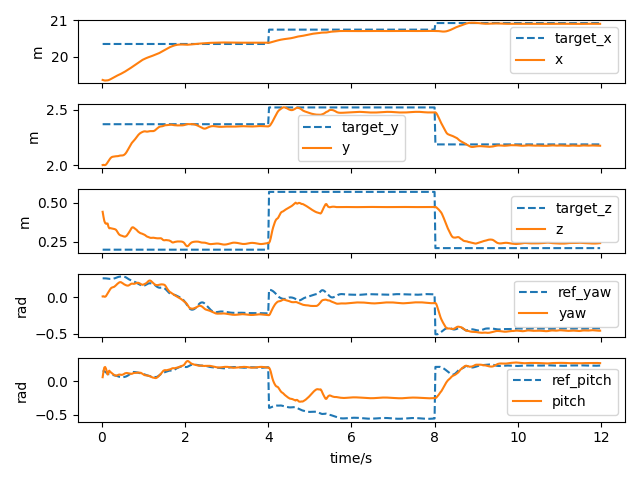
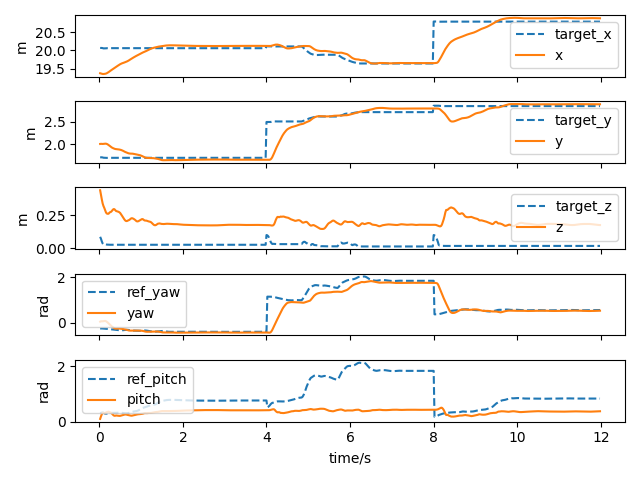
feat: add box

diff --git a/legged_gym/legged_gym/envs/go1g/go1gbox.py b/legged_gym/legged_gym/envs/go1g/go1gbox.py
@@ -97,7 +97,7 @@ class Go1GB(BaseTask):
         self.height_samples = None
         self.debug_viz = True
         self.init_done = False
-        self.use_box = False
+        self.use_box = True
         self._parse_cfg(self.cfg)
         super().__init__(self.cfg, sim_params, physics_engine, sim_device, headless)  # calls create_sim
         self.num_dummy_dof = cfg.env.num_dummy_dof  # used only in simulation
@@ -122,7 +122,8 @@ class Go1GB(BaseTask):
         Args:
             actions (torch.Tensor): Tensor of shape (num_envs, num_actions_per_env)
         """
-        actions = self.policy(self.obs_buf.detach(), hist_encoding=True, scandots_latent=None)
+        #wqwqwq
+        actions = self.policy(self.lowlevel_obs_buf.detach(), hist_encoding=True, scandots_latent=None)
         actions = self.reindex(actions)
         actions.to(self.device)
         self.action_history_buf = torch.cat([self.action_history_buf[:, 1:].clone(), actions[:, None, :].clone()], dim=1)
@@ -152,15 +153,15 @@ class Go1GB(BaseTask):
         self.post_physics_step()
 
         clip_obs = self.cfg.normalization.clip_observations
-        self.obs_buf = torch.clip(self.obs_buf, -clip_obs, clip_obs)
-        if self.privileged_obs_buf is not None:
-            self.privileged_obs_buf = torch.clip(self.privileged_obs_buf, -clip_obs, clip_obs)
+        self.lowlevel_obs_buf = torch.clip(self.lowlevel_obs_buf, -clip_obs, clip_obs)
+        if self.privileged_lowlevel_obs_buf is not None:
+            self.privileged_lowlevel_obs_buf = torch.clip(self.privileged_lowlevel_obs_buf, -clip_obs, clip_obs)
         self.extras["delta_yaw_ok"] = self.delta_yaw < 0.6
         if self.cfg.depth.use_camera and self.global_counter % self.cfg.depth.update_interval == 0:
             self.extras["depth"] = self.depth_buffer[:, -2]  # have already selected last one
         else:
             self.extras["depth"] = None
-        return self.obs_buf, self.privileged_obs_buf, self.rew_buf, self.reset_buf, self.extras
+        return self.lowlevel_obs_buf, self.privileged_lowlevel_obs_buf, self.rew_buf, self.reset_buf, self.extras
 
     def get_history_observations(self):
         return self.obs_history_buf
@@ -214,9 +215,9 @@ class Go1GB(BaseTask):
         next_flag = self.reach_goal_timer > self.cfg.env.reach_goal_delay / self.dt
         self.cur_goal_idx[next_flag] += 1
         self.reach_goal_timer[next_flag] = 0
+        # update current goal(box position)
+        self.target_position = self.box_states[:,:3]
 
-        _target_position = self.commands[:,:2] + self.env_origins[:,:2]
-        self.target_position = torch.cat((_target_position, self.commands[:,2:3]), dim=1)
         self.reached_goal_ids = torch.norm(self.target_position-self.ee_pos, dim=1) < self.cfg.env.next_goal_threshold
         self.reach_goal_timer[self.reached_goal_ids] += 1
 
@@ -243,7 +244,7 @@ class Go1GB(BaseTask):
         self.gym.refresh_rigid_body_state_tensor(self.sim)
         self.gym.refresh_force_sensor_tensor(self.sim)
         self.root_states = self.all_root_states[self.robot_idxs,:]
-        self.box_states = self.all_root_states[self.box_idxs,:]  # box position
+        self.box_states = self.all_root_states[self.box_idxs,:]
 
         self.episode_length_buf += 1
         self.common_step_counter += 1
@@ -280,7 +281,7 @@ class Go1GB(BaseTask):
 
         # self.cur_goals = self._gather_cur_goals()
         # self.next_goals = self._gather_cur_goals(future=1)
-        self.cur_goals = self.box_states[:,:3]
+        self.cur_goals = self.box_states[:,:3]  # not used
 
         self.update_depth_buffer()
 
@@ -408,11 +409,13 @@ class Go1GB(BaseTask):
         Computes observations
         """
         imu_obs = torch.stack((self.roll, self.pitch), dim=1)
-        if self.global_counter % 5 == 0:
+        if self.global_counter % 5 == 0:  # = actions[:,something] wqwqwq
             self.delta_yaw = self.target_yaw - self.yaw
             self.delta_pitch = self.target_pitch - self.pitch
             self.delta_position = self.base_target_pos
-        obs_buf = torch.cat((#skill_vector, 
+
+        # replace real obs to the output of the highlevel policy
+        lowlevel_obs_buf = torch.cat((#skill_vector, 
                             self.base_ang_vel  * self.obs_scales.ang_vel,   #3
                             imu_obs,    #2
                             self.delta_yaw[:, None],    #1
@@ -437,19 +440,18 @@ class Go1GB(BaseTask):
         ), dim=-1)
         if self.cfg.terrain.measure_heights:
             heights = torch.clip(self.root_states[:, 2].unsqueeze(1) - 0.3 - self.measured_heights, -1, 1.)
-            self.obs_buf = torch.cat([obs_buf, heights, priv_explicit, priv_latent, self.obs_history_buf.view(self.num_envs, -1)], dim=-1)
+            self.lowlevel_obs_buf = torch.cat([lowlevel_obs_buf, heights, priv_explicit, priv_latent, self.obs_history_buf.view(self.num_envs, -1)], dim=-1)
         else:
-            self.obs_buf = torch.cat([obs_buf, priv_explicit, priv_latent, self.obs_history_buf.view(self.num_envs, -1)], dim=-1)
-        obs_buf[:, 6:8] = 0  # mask yaw in proprioceptive history
+            self.lowlevel_obs_buf = torch.cat([lowlevel_obs_buf, priv_explicit, priv_latent, self.obs_history_buf.view(self.num_envs, -1)], dim=-1)
+        # lowlevel_obs_buf[:, 6:8] = 0  # mask yaw in proprioceptive history
         self.obs_history_buf = torch.where(
             (self.episode_length_buf <= 1)[:, None, None], 
-            torch.stack([obs_buf] * self.cfg.env.history_len, dim=1),
+            torch.stack([lowlevel_obs_buf] * self.cfg.env.history_len, dim=1),
             torch.cat([
                 self.obs_history_buf[:, 1:],
-                obs_buf.unsqueeze(1)
+                lowlevel_obs_buf.unsqueeze(1)
             ], dim=1)
         )
-
         self.contact_buf = torch.where(
             (self.episode_length_buf <= 1)[:, None, None], 
             torch.stack([self.contact_filt.float()] * self.cfg.env.contact_buf_len, dim=1),
@@ -600,15 +602,16 @@ class Go1GB(BaseTask):
         self.commands[env_ids, 1] = torch_rand_float(self.command_ranges["target_y"][0], self.command_ranges["target_y"][1], (len(env_ids), 1), device=self.device).squeeze(1)
         self.commands[env_ids, 2] = torch_rand_float(self.command_ranges["target_z"][0], self.command_ranges["target_z"][1], (len(env_ids), 1), device=self.device).squeeze(1)
         self.commands[env_ids, 3] = torch_rand_float(-1, 1,(len(env_ids), 1), device=self.device).squeeze(1)
-        # if self.cfg.commands.heading_command:
-        #     self.commands[env_ids, 3] = torch_rand_float(self.command_ranges["heading"][0], self.command_ranges["heading"][1], (len(env_ids), 1), device=self.device).squeeze(1)
-        # else:
-        #     self.commands[env_ids, 2] = torch_rand_float(self.command_ranges["ang_vel_yaw"][0], self.command_ranges["ang_vel_yaw"][1], (len(env_ids), 1), device=self.device).squeeze(1)
-        #     self.commands[env_ids, 2] *= torch.abs(self.commands[env_ids, 2]) > self.cfg.commands.ang_vel_clip
 
-        # # set small commands to zero
-        # self.commands[env_ids, :2] *= torch.abs(self.commands[env_ids, :2]) > self.cfg.commands.lin_vel_clip
-        # self.commands[env_ids, 2:4] *= torch.abs(self.commands[env_ids, 2:4]) > self.cfg.commands.ang_clip
+        # reset target position
+        self.box_states[env_ids, :2] = self.commands[env_ids,:2] + self.env_origins[env_ids,:2]
+        self.box_states[env_ids, 2] = 0.1
+        root_ids_int32 = torch.tensor(self.box_idxs,device=self.device)[env_ids].to(dtype=torch.int32)
+        self.all_root_states[self.box_idxs,:] = self.box_states
+        self.gym.set_actor_root_state_tensor_indexed(self.sim,
+                                                     gymtorch.unwrap_tensor(self.all_root_states),
+                                                     gymtorch.unwrap_tensor(root_ids_int32), len(root_ids_int32))
+        
 
     def _compute_torques(self, actions):
         """ Compute torques from actions.
@@ -687,7 +690,6 @@ class Go1GB(BaseTask):
             self.root_states[env_ids] = self.base_init_state
             self.root_states[env_ids, :3] += self.env_origins[env_ids]
         # get robot root state id
-        env_ids_int32 = env_ids.to(dtype=torch.int32)
         root_ids_int32 = torch.tensor(self.robot_idxs,device=self.device)[env_ids].to(dtype=torch.int32)
         self.all_root_states[self.robot_idxs,:] = self.root_states
         self.gym.set_actor_root_state_tensor_indexed(self.sim,
@@ -739,6 +741,8 @@ class Go1GB(BaseTask):
         env_cfg, train_cfg = task_registry.get_cfgs(name=args.task)
         env_cfg.env.num_envs = self.num_envs
         env_cfg.env.create_sim = False
+        self.lowlevel_obs_buf = torch.zeros(self.num_envs, env_cfg.env.num_observations, device=self.device, dtype=torch.float)
+
         # prepare environment
         env, _ = task_registry.make_env(name=args.task, args=args, env_cfg=env_cfg)
 
@@ -765,6 +769,7 @@ class Go1GB(BaseTask):
         # create some wrapper tensors for different slices
         self.all_root_states = gymtorch.wrap_tensor(actor_root_state)
         self.root_states = self.all_root_states[self.robot_idxs,:]
+        self.box_states = self.all_root_states[self.box_idxs,:]
         # self.root_states = self.all_root_states.view(self.num_envs, -1, 13)[:, 0, :] # (num_envs, 13)
         if verbose:
             print(f"all_root_states:{self.all_root_states}")
@@ -1051,10 +1056,8 @@ class Go1GB(BaseTask):
                 box_size = 0.05
                 asset_options = gymapi.AssetOptions()
                 box_asset = self.gym.create_box(self.sim, box_size, box_size, box_size, asset_options)
-                box_pose.p = gymapi.Vec3(*(to_torch([self.cur_goals[i, 0],self.cur_goals[i, 1],0.5], device=self.device)))
+                box_pose.p = gymapi.Vec3(*(to_torch([0,0,0.5], device=self.device)))
                 box_pose.r = gymapi.Quat.from_axis_angle(gymapi.Vec3(0, 0, 1), np.random.uniform(-np.pi, np.pi))
-                # print(f"ori env:{self.env_origins[i]}")
-                # print(f"cur goal:{self.cur_goals[i,:]}")
                 box_handle = self.gym.create_actor(env_handle, box_asset, box_pose, "box", i, 0)
                 color = gymapi.Vec3(np.random.uniform(0, 1), np.random.uniform(0, 1), np.random.uniform(0, 1))
                 self.gym.set_rigid_body_color(env_handle, box_handle, 0, gymapi.MESH_VISUAL_AND_COLLISION, color)

diff --git a/TODO.md b/TODO.md
@@ -61,7 +61,7 @@ low-level policy (v2, blind, gripper position command)
 3. commands resample
 
 ## 1.1
-1. load policy
++ 1. load policy
     based on play
     watch 000-10 name problem
 2. reward for picking up
@@ -70,10 +70,13 @@ low-level policy (v2, blind, gripper position command)
     box state
     robot state
     action_history_buf
-4. update action freq:
-    use self.action_history_buf
-5. action space:     
++ 4. update action freq:
+    just use the lowlevel obs freq
++ 5. action space(cat observation space for lowlevel):     
     delta_yaw
     delta_pitch
     delta_position
     gripper state
+6. step and lowlevel step
+
+self.commands seems useless
